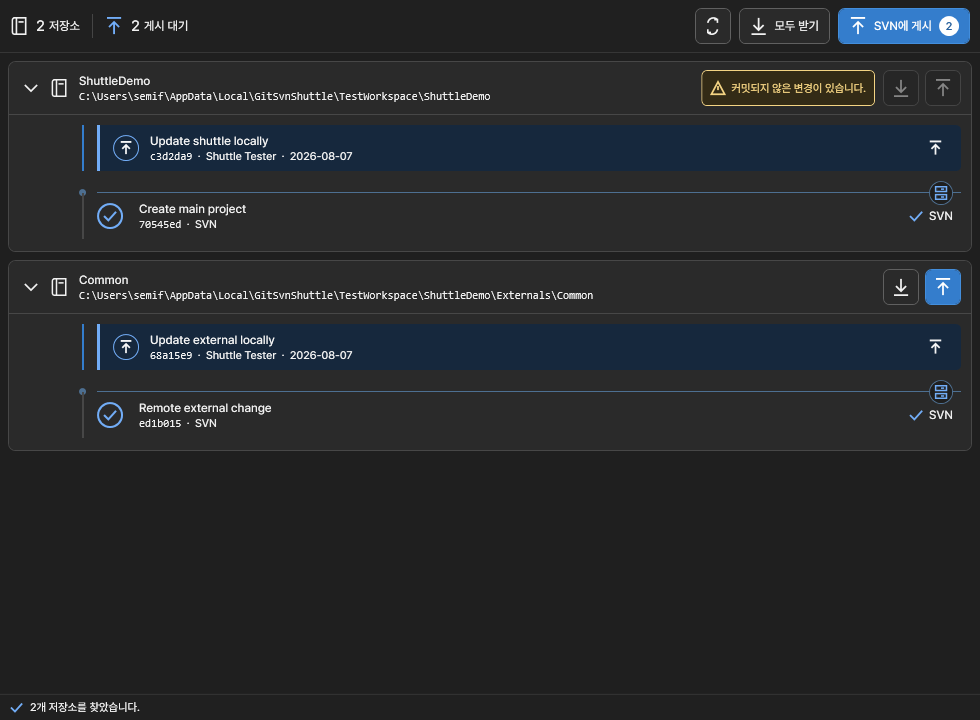
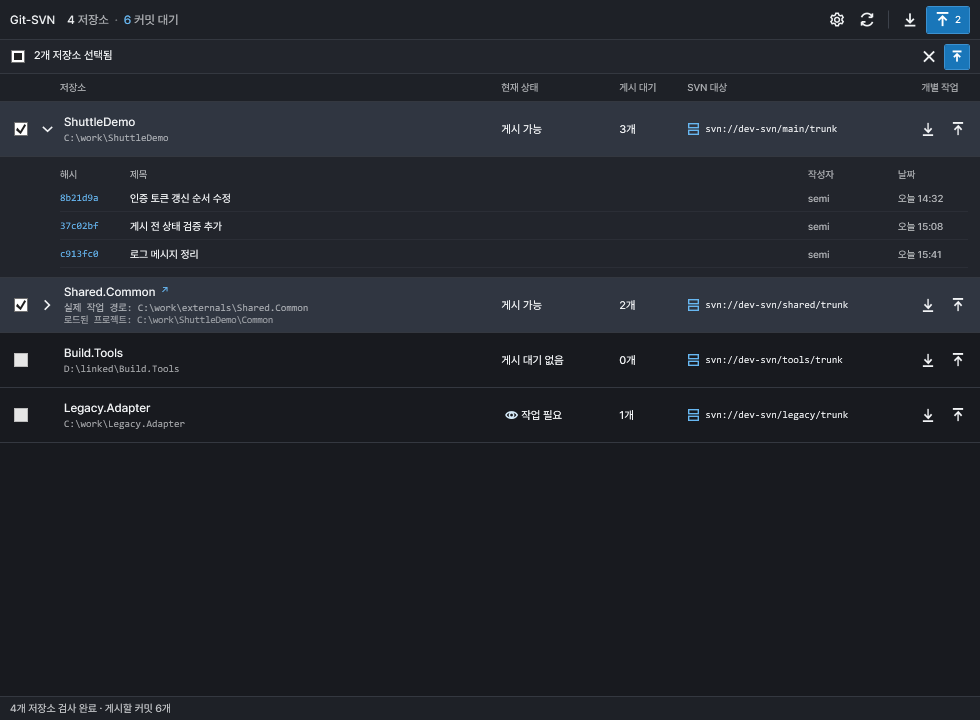
Release 0.3.9

diff --git a/src/GitSvnShuttle.Vsix/GitSvnShuttlePackage.cs b/src/GitSvnShuttle.Vsix/GitSvnShuttlePackage.cs
@@ -12,7 +12,7 @@ using Task = System.Threading.Tasks.Task;
 namespace GitSvnShuttle.Vsix;
 
 [PackageRegistration(UseManagedResourcesOnly = true, AllowsBackgroundLoading = true)]
-[InstalledProductRegistration("Git-SVN Shuttle", "Git-SVN rebase and dcommit for Visual Studio", "0.3.4")]
+[InstalledProductRegistration("Git-SVN Shuttle", "Git-SVN rebase and dcommit for Visual Studio", "0.3.9")]
 [ProvideMenuResource("GitSvnShuttle.CTMENU", 1)]
 [ProvideToolWindow(typeof(GitSvnShuttleToolWindow), Style = VsDockStyle.Tabbed, Window = ToolWindowGuids80.SolutionExplorer)]
 [Guid(PackageGuidString)]

diff --git a/README.md b/README.md
@@ -15,10 +15,9 @@ It fills the gap left after Visual Studio's built-in Git UI has staged and commi
 
 ## Current MVP
 
-Open **Tools > Git-SVN Shuttle** in Visual Studio. The tool window shows every Git repository under the solution that contains `svn-remote.*` configuration. Each repository history is displayed newest first:
+Open **Tools > Git-SVN Shuttle** in Visual Studio. The tool window shows every Git repository under the solution that contains `svn-remote.*` configuration. Select only the repositories to publish, then expand a repository row to review its pending commits in the exact order they will be sent by `git svn dcommit`.
 
-- Blue rows with an upload icon are local commits that will be sent by `git svn dcommit`.
-- The server marker separates them from the last commit already represented in SVN.
+The table keeps repository identity, current state, pending count, SVN destination, and individual actions visible. It switches to a compact two-line layout in narrow tool windows without horizontal scrolling.
 
 Uncommitted file changes are shown separately in the repository header. They are not part of the dcommit list, and that repository's action buttons remain disabled until the changes are committed or discarded.
 
@@ -36,9 +35,9 @@ The root repository is processed first, followed by nested repositories in path 
 2. Open a solution located inside the main Git-SVN working copy.
 3. Open **Tools > Git-SVN Shuttle**.
 4. The extension checks `git --version` and `git svn --version` once. If setup is required, use the folder button to select `git.exe` or the search button to scan common locations.
-5. Review the blue upload rows above the server marker. Only those commits will be dcommitted.
+5. Select the repositories to publish and expand each row to review its pending commits.
 6. Use the download icon for one repository or **모두 받기** before publishing.
-7. Use an upload icon or **SVN에 게시**. Confirm the SVN destination and exact commits in the confirmation window before starting. If HEAD, pending commits, the SVN baseline, or SVN configuration changes, publishing stops and requires a new confirmation.
+7. Use an upload icon to publish one repository, or publish the selected repositories in the displayed selection order. Confirm the SVN destination and exact commits before starting. If HEAD, pending commits, the SVN baseline, or SVN configuration changes, publishing stops and requires a new confirmation.
 8. Read detailed command output under **View > Output > Git-SVN Shuttle**.
 
 When a loaded project is linked through a directory junction, the repository card identifies it as an external link and shows the physical Git working path used for Git-SVN operations.
